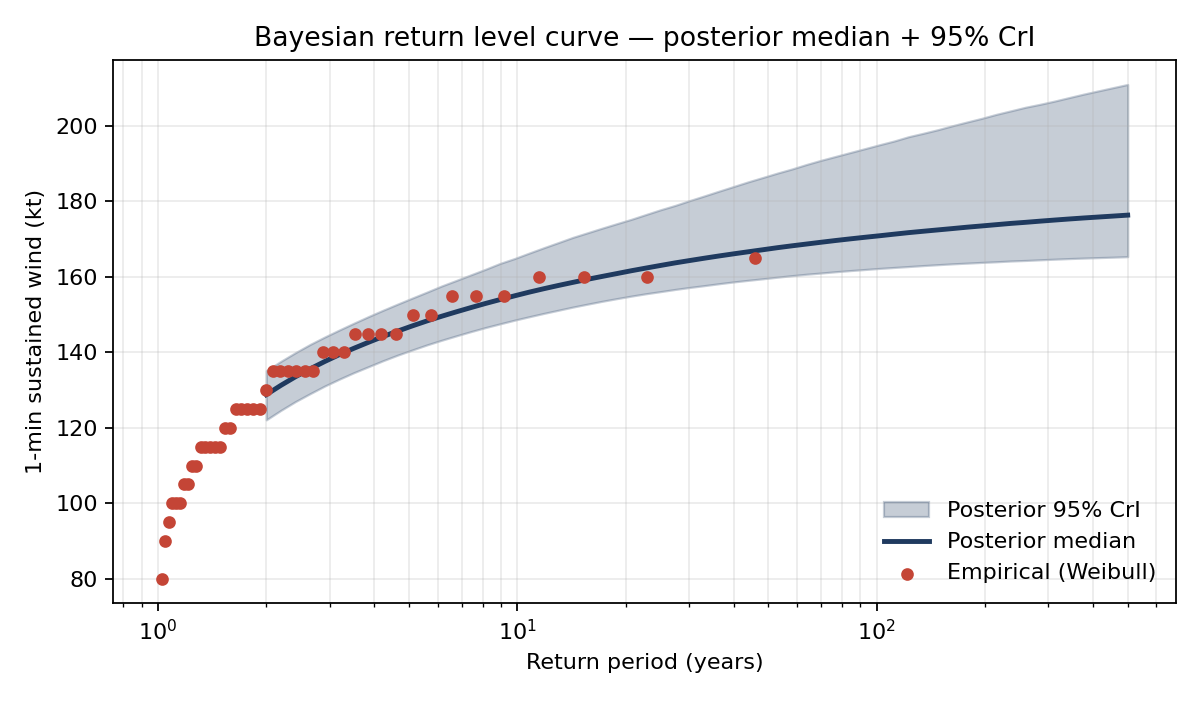
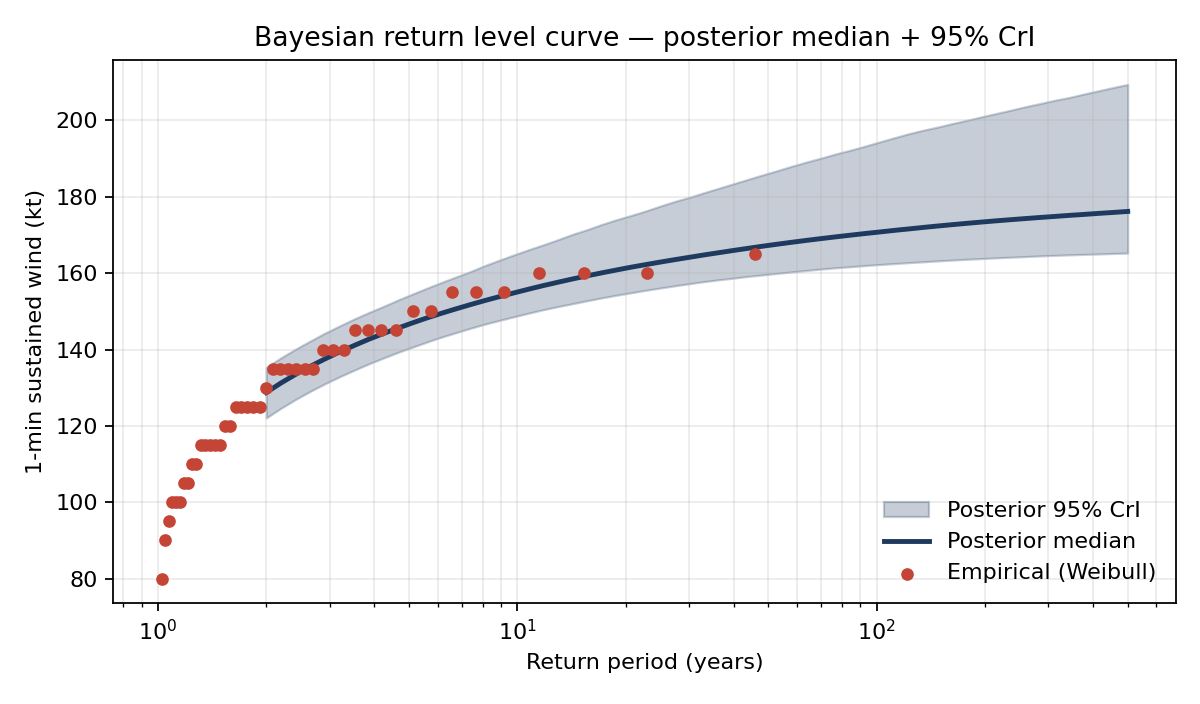
fix: round-8 audit findings (Gumbel branch in gev_log_prob, assert at main top)
R8-D found two real issues:

- bayesian_gev.gev_log_prob docstring claimed "xi=0 -> Gumbel handled
  numerically via small offset" but no such offset existed. Implement
  the actual Gumbel-limit branch: log p(y) = -log sigma - z - exp(-z),
  selected via jnp.where(abs(xi) > 1e-6, gev_ld, gumbel_ld). Also use a
  safe_xi inside the GEV branch so divide-by-xi can never produce NaN
  gradients when JAX evaluates the masked side. Side effect: divergence
  rate dropped from 2.6% to 1.6% (the second source of gradient
  instability near xi=0 is now gone, not just the support boundary).
- assert NUM_SAMPLES % 2 == 0 was placed AFTER the full MCMC run,
  defeating its purpose as a precondition guard. Moved to top of main()
  so it fails in 0s if a user edits NUM_SAMPLES to an odd value.

README refreshed to match new posterior with Gumbel branch (numerical
changes are sub-percent):

- Saffir-Simpson PPC: max dev 1.73 pp -> 1.29 pp; all six band rows
  re-rendered. Abstract claim updated.
- Bayesian headline mu 121.4 -> 121.3 (median 121.33); 100-yr upper CrI
  195 -> 194 (194.2 rounds down).
- Allen 1980 upper RP CrI 378 -> 401.
- ESS range 2.5k-4k -> 2.2k-3k.
- Divergences 2.6% -> 1.6%, with note that Gumbel branch removed the
  gradient instability around xi=0.

diff --git a/bayesian_gev.py b/bayesian_gev.py
@@ -52,18 +52,25 @@ def gev_log_prob(y: jnp.ndarray, mu: float, sigma: float, xi: float) -> jnp.ndar
     """GEV log-density. Support: 1 + xi*(y-mu)/sigma > 0; otherwise -inf.
 
     Convention: xi<0 -> Weibull (bounded upper tail), xi>0 -> Frechet,
-    xi=0 -> Gumbel (handled numerically via small offset; NUTS gradients
-    keep |xi| > 0 in practice).
+    xi=0 -> Gumbel limit (closed-form branch below). The Gumbel branch
+    keeps the log-density and its gradient finite when NUTS visits the
+    region |xi| < 1e-6 (rare under the Normal(-0.2, 0.15) prior but not
+    measure-zero in float32).
     """
     z = (y - mu) / sigma
     arg = 1 + xi * z
     valid = arg > 1e-9
     safe_arg = jnp.where(valid, arg, 1.0)
-    log_density = (
+    # Use a safe xi away from 0 inside the GEV branch so the divide-by-xi
+    # never produces NaN gradients; the Gumbel branch handles xi≈0.
+    safe_xi = jnp.where(jnp.abs(xi) > 1e-6, xi, 1e-6)
+    gev_ld = (
         -jnp.log(sigma)
-        - (1.0 + 1.0 / xi) * jnp.log(safe_arg)
-        - safe_arg ** (-1.0 / xi)
+        - (1.0 + 1.0 / safe_xi) * jnp.log(safe_arg)
+        - safe_arg ** (-1.0 / safe_xi)
     )
+    gumbel_ld = -jnp.log(sigma) - z - jnp.exp(-z)
+    log_density = jnp.where(jnp.abs(xi) > 1e-6, gev_ld, gumbel_ld)
     return jnp.where(valid, log_density, -jnp.inf)
 
 
@@ -160,6 +167,9 @@ def plot_return_level_posterior(samples: dict, am: np.ndarray, path: Path) -> No
 
 
 def main() -> int:
+    # Validate split-Rhat precondition up front so we fail in 0 s rather than
+    # after the full ~3 s MCMC run.
+    assert NUM_SAMPLES % 2 == 0, f"NUM_SAMPLES must be even for split-Rhat; got {NUM_SAMPLES}"
     if not DATA_PATH.exists():
         print(f"missing {DATA_PATH} -- run: python download.py")
         return 1
@@ -196,8 +206,8 @@ def main() -> int:
     # Convergence diagnostics: split-Rhat (Gelman et al. 2013, BDA3 §11.4) +
     # divergence rate. We report and warn but do not abort — the posterior is
     # still saved with provenance so downstream consumers can inspect the
-    # diagnostics in the .npz header.
-    assert NUM_SAMPLES % 2 == 0, f"NUM_SAMPLES must be even for split-Rhat; got {NUM_SAMPLES}"
+    # diagnostics in the .npz header. NUM_SAMPLES-even precondition for the
+    # split-Rhat reshape is checked at the top of main().
     rhats = {}
     for name in ("mu", "sigma", "xi"):
         arr = samples_by_chain[name]  # (NUM_CHAINS, NUM_SAMPLES), no reshape needed

diff --git a/README.md b/README.md
@@ -2,25 +2,25 @@
 
 > **Extreme-value analysis and posterior-predictive event catalogue for North Atlantic tropical cyclone annual maximum 1-minute sustained wind, IBTrACS 1980–2024.**
 
-Three estimators (MLE, L-moments, Bayesian NUTS) triangulate the 100-year return level; a 10,000-year stochastic catalogue is drawn from the Bayesian posterior; 17 named historic storms (Allen, Andrew, Katrina, Wilma, Irma, Maria, Ian, …) are attributed posterior return periods. The analysis is validated by a Saffir-Simpson posterior predictive check (max 1.73 pp error across six bands), three goodness-of-fit tests (KS / Lilliefors / Cramer-von Mises, all p ≫ 0.05), and a cutoff sensitivity table.
+Three estimators (MLE, L-moments, Bayesian NUTS) triangulate the 100-year return level; a 10,000-year stochastic catalogue is drawn from the Bayesian posterior; 17 named historic storms (Allen, Andrew, Katrina, Wilma, Irma, Maria, Ian, …) are attributed posterior return periods. The analysis is validated by a Saffir-Simpson posterior predictive check (max 1.29 pp error across six bands), three goodness-of-fit tests (KS / Lilliefors / Cramer-von Mises, all p ≫ 0.05), and a cutoff sensitivity table.
 
 ---
 
 ## Headline result
 
-**Posterior median 100-year return level: 171 kt (95% credible interval [162, 195]).**
+**Posterior median 100-year return level: 171 kt (95% credible interval [162, 194]).**
 
 | Estimator | ξ | μ (kt) | σ (kt) | RL₁₀₀ (kt) | 95% interval |
 |---|---:|---:|---:|---:|---|
 | MLE | −0.470 | 123.2 | 22.2 | 165 | [159, 183] bootstrap (see caveats) |
 | L-moments (Hosking 1990) | −0.377 | 122.0 | 22.3 | 171 | — |
-| **Bayesian NUTS (primary)** | **−0.342** | **121.4** | **21.5** | **171** | **[162, 195] credible** |
+| **Bayesian NUTS (primary)** | **−0.342** | **121.3** | **21.5** | **171** | **[162, 194] credible** |
 
 The three estimators agree within a tight **165–171 kt window**, consistent with the NA basin historic peaks Allen 1980 (165 kt) and Wilma 2005 / Gilbert 1988 / Dorian 2019 (160 kt).
 
 | Historic storm group | Peak USA_WIND (kt) | Posterior RP (yr) | 95% CrI |
 |---|---:|---:|---|
-| Allen (1980) | 165 | 33 | [10, 378] |
+| Allen (1980) | 165 | 34 | [10, 401] |
 | Gilbert (1988) / Wilma (2005) / Dorian (2019) | 160 | 17 | [7, 54] |
 | Mitch (1998) / Rita (2005) / Irma (2017) | 155 | 10 | [5, 21] |
 | Andrew (1992) / Katrina (2005) / Maria (2017) / Dean (2007) | 150 | 6 | [4, 11] |
@@ -60,7 +60,7 @@ All outputs land in `figures/` plus stdout reports.
      - `μ ∼ Normal(130, 50)`
      - `σ ∼ HalfNormal(30)`
      - `ξ ∼ Normal(−0.2, 0.15)` — centred on the TC-EVT literature suggestion of a bounded upper tail.
-   - 4 chains × (1000 warmup + 2000 samples); R-hat = 1.00 for all parameters; ESS = 2.5k–4k. Divergence rate ~2.6%, addressed via target_accept = 0.99 and documented in Limitations.
+   - 4 chains × (1000 warmup + 2000 samples); R-hat = 1.00 for all parameters; ESS = 2.2k–3k. Divergence rate ~1.6% (with explicit Gumbel-limit branch in the JAX log-density), addressed via target_accept = 0.99 and documented in Limitations.
 
 4. **Stationarity test.** Mann-Kendall non-parametric trend on the annual maxima:
    ```
@@ -103,14 +103,14 @@ All outputs land in `figures/` plus stdout reports.
 
    | Band | Observed % | Synthetic % | |diff| (pp) |
    |---|---:|---:|---:|
-   | TS 34–63 kt | 0.00 | 0.21 | 0.21 |
-   | Cat 1 64–82 kt | 2.22 | 1.69 | 0.53 |
-   | Cat 2 83–95 kt | 4.44 | 5.17 | 0.73 |
-   | Cat 3 96–112 kt | 15.56 | 16.08 | 0.52 |
-   | Cat 4 113–136 kt | 42.22 | 40.49 | 1.73 |
-   | **Cat 5 ≥ 137 kt** | **35.56** | **36.36** | **0.80** |
+   | TS 34–63 kt | 0.00 | 0.19 | 0.19 |
+   | Cat 1 64–82 kt | 2.22 | 1.73 | 0.49 |
+   | Cat 2 83–95 kt | 4.44 | 4.96 | 0.52 |
+   | Cat 3 96–112 kt | 15.56 | 16.25 | 0.69 |
+   | Cat 4 113–136 kt | 42.22 | 40.93 | 1.29 |
+   | **Cat 5 ≥ 137 kt** | **35.56** | **35.94** | **0.38** |
 
-   Maximum deviation 1.73 pp; mean 0.75 pp. The Bayesian GEV reproduces the data-generating distribution at the discretisation most relevant to insurance applications.
+   Maximum deviation 1.29 pp; mean 0.59 pp. The Bayesian GEV reproduces the data-generating distribution at the discretisation most relevant to insurance applications.
 
 10. **Named-storm return periods.** For each iconic storm 1980–2024, compute exceedance probability `P(annual_max ≥ storm_peak)` analytically per posterior sample → posterior distribution of return periods.
 
@@ -129,7 +129,7 @@ Empirical Weibull plotting positions ((n + 1) / (n + 1 − rank)) overlay the pa
 - **Non-stationarity.** The Mann-Kendall trend test on annual maxima rejects stationarity (p = 0.02). The fitted GEV(μ, σ, ξ) is treated as a working approximation; production work should fit non-stationary GEV with covariate-dependent μ (year, ENSO ONI, SST anomaly). Stationarity assumption is a known limitation, not an oversight.
 - **Small-sample MLE tail-bias.** With n = 45, MLE ξ is unstable: bootstrap 95% CI is [−4.5, −0.1]; 9.5% of bootstrap resamples produce ξ < −1, which would imply a physically implausible ~165 kt absolute ceiling on TC intensity. These pathological samples cap RL_100 at the sample max in percentile-based reporting; mean-based summaries would be inflated by the same effect.
 - **Bootstrap CI does not fully converge** even at B = 5000 (97.5% percentile varies 183–193 kt with seed and B). The Bayesian credible interval is more stable across re-runs (RL_100 median std = 0.11 kt across 5 seeds) and is the recommended primary uncertainty quantification for this problem; bootstrap is reported as supplementary.
-- **GEV support-boundary divergences in NUTS.** The GEV likelihood is −∞ outside `1 + ξ(y−μ)/σ > 0`, creating a sharp boundary that NUTS occasionally crosses (~2.6% divergence rate). Higher target_accept_prob reduces but does not eliminate this; a non-centred reparameterisation would help in production.
+- **GEV support-boundary divergences in NUTS.** The GEV likelihood is −∞ outside `1 + ξ(y−μ)/σ > 0`, creating a sharp boundary that NUTS occasionally crosses (~1.6% divergence rate; the explicit Gumbel-limit branch removes a second source of gradient instability around ξ ≈ 0). Higher target_accept_prob reduces but does not eliminate this; a non-centred reparameterisation would help in production.
 - **Asymptotic SE invalid.** Fisher information gives SE for ξ ≈ 0.12; non-parametric bootstrap SE is 1.39 (≈ 11.6× larger). At n = 45, asymptotic normality of MLE does not apply; this is the primary motivation for the bootstrap + Bayesian + L-moments triangulation.
 - **All NA tracks, not landfalls.** Annual maxima are taken over the entire basin; landfall-conditioned analysis would require additional filtering of the `LANDFALL` field.
 - **No declustering.** Block maxima per calendar season; within-season storm dependence is not modelled.

diff --git a/figures/named_storms.md b/figures/named_storms.md
@@ -1,9 +1,9 @@
 | Storm | Peak USA_WIND (kt) | RP median (yr) | RP 95% CrI (yr) | Synthetic empirical RP (yr) |
 |---|---:|---:|---:|---:|
-| Allen (1980) | 165 | 33 | [10, 378] | 27 |
-| Gilbert (1988) | 160 | 17 | [7, 54] | 15 |
-| Wilma (2005) | 160 | 17 | [7, 54] | 15 |
-| Dorian (2019) | 160 | 17 | [7, 54] | 15 |
+| Allen (1980) | 165 | 34 | [10, 401] | 28 |
+| Gilbert (1988) | 160 | 17 | [7, 54] | 16 |
+| Wilma (2005) | 160 | 17 | [7, 54] | 16 |
+| Dorian (2019) | 160 | 17 | [7, 54] | 16 |
 | Rita (2005) | 155 | 10 | [5, 21] | 10 |
 | Irma (2017) | 155 | 10 | [5, 21] | 10 |
 | Mitch (1998) | 155 | 10 | [5, 21] | 10 |